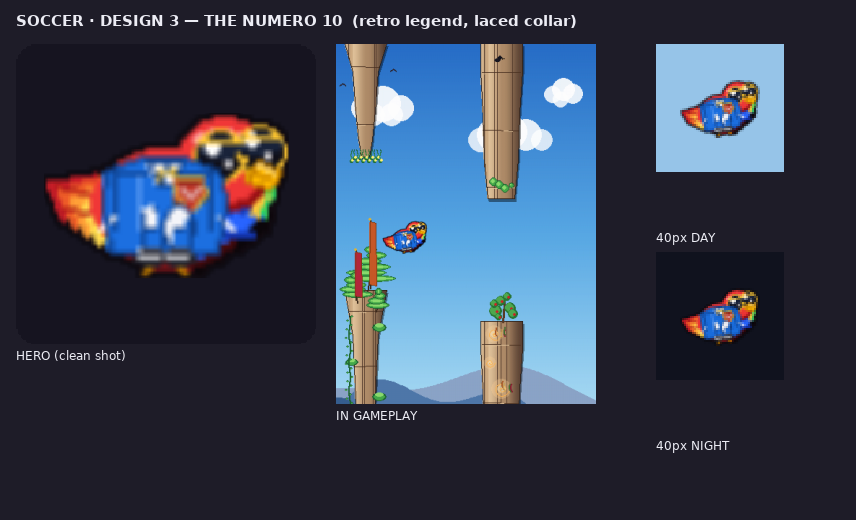
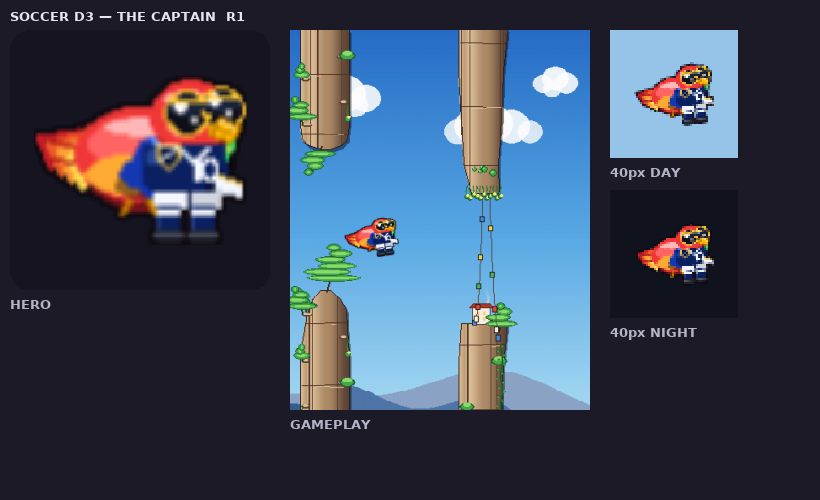
Soccer costume v2 design 3: THE CAPTAIN (navy kit + armband)
Recolor the HX,HY baseball-jersey polygon to deep navy with a white
V-collar, white squad number, gold crest, and a bright white captain's
armband on the near wing. No headband, no ball; kit stays off the face.

Claude-Session: https://claude.ai/code/session_01HafGQfRZVDiGkQqpJPr5Cm

diff --git a/tools/soccer_candidates/design_3.py b/tools/soccer_candidates/design_3.py
@@ -1,176 +1,103 @@
-"""DESIGN 3 — THE NÚMERO 10 (Soccer / Football, retro legend).
+"""DESIGN 3 — THE CAPTAIN (Soccer / Football, v2).
 
-Scratch exploration only — NOT registered in store_skins.BUILDERS. Pip the
-scarlet macaw kitted as a vintage international glory legend: a classic
-sky-blue, long-sleeve COTTON jersey with a laced V-collar at the CHEST
-neckline (the era tell), a small embroidered crest patch on the near chest,
-the iconic big retro "10" low on the shirt, and classic high socks with a
-single fold-over top band over low retro boots. No headgear (crown stays
-open) so the era reads clean — and so NOTHING covers Pip's beak/eye/face.
+Scratch exploration only — NOT registered in store_skins.BUILDERS, so
+production is untouched. Pip the scarlet macaw kitted as the side's captain:
+a classic deep-NAVY jersey with a white V-collar at the chest neckline, a
+white squad NUMBER on the chest, a small gold team CREST on the upper-left
+chest, and — the hero tell — a bright white CAPTAIN'S ARMBAND wrapped around
+the near (forward-right) wing. White shorts hem, tall navy socks with a white
+hoop, and low dark boots finish the kit. No ball, no headgear — the crown
+stays the open macaw so Pip still reads as a parrot, and NOTHING covers the
+beak/eye/face.
 
-The jersey is painted OVER the scarlet body (head stays the macaw so Pip
-still reads as a parrot). The laced CHEST collar + crest + long sleeves are
-what separate this from the modern Striker — it must read as a DIFFERENT ERA
-of football. The collar lives at the NECKLINE on the chest (same zone as the
-tennis polo collar, ~HY+8..12), never on the face, so it can't be mistaken
-for sunglasses. All kit is held INSIDE the base bird footprint: socks +
-boots sit on the feet line (~HY+15..27), nothing balloons the torso or
-drops below the feet.
+The jersey reuses the EXACT baseball-jersey polygon anchored on HX,HY (top at
+HY+8, hem at HY+23) so the kit sits centred on the torso, never riding up onto
+the face or off to the side. The armband is the one cue that must survive the
+40px downscale: a 4px bright white band on the dark navy sleeve, the single
+brightest mark in the costume, so "captain" reads at hero scale.
 """
 import pygame
 
 from game import store_skins
-from game.store_skins import HX, HY, CROWN_Y, _poly
+from game.store_skins import HX, HY, _poly
 
 
-# Sky-blue retro cotton kit. Three cloth values so the laced collar, crest and
-# big "10" still separate from the jersey field after the 40px downscale, and
-# the long sleeves read as set-in. Cotton, not satin — the values sit closer
-# together than the modern Striker's, which is part of the nostalgic read.
-_RET_SKY     = (28, 111, 224)       # #1C6FE0 jersey sky-blue (cotton mid)
-_RET_SKY_D   = (16, 66, 142)        # cloth shadow / seams / line work
-_RET_SKY_H   = (96, 158, 244)       # sleeve / collar highlight
-_RET_SKY_HOLE= (60, 132, 236)       # knocked-out sky-blue inside the "0"
-_RET_WHITE   = (248, 250, 255)      # #F8FAFF number / collar trim (lifted for contrast)
-_RET_WHITE_D = (206, 218, 240)      # cool white shade so the trim reads rounded
-_RET_RED     = (200, 60, 46)        # #C83C2E retro crest field
-_RET_RED_D   = (120, 32, 24)        # crest shadow / outline
-_RET_GOLD    = (236, 198, 78)       # #ECC64E lace cord / crest rim
-_RET_GOLD_H  = (255, 232, 158)      # lace glint
-_RET_GOLD_D  = (120, 96, 30)        # crisp dark underline so gold reads as kit
-_RET_BOOT    = (35, 37, 46)         # #23252E low retro boot
-_RET_BOOT_H  = (78, 84, 102)        # boot upper highlight
-
-
-# Body centre in composite space (parrot body centre (32,32) + PARROT_DY=20).
-BCX, BCY = 32, 52
+# Classic deep-navy kit. Three cloth values so the collar, number and crest
+# still separate from the jersey field after the 40px downscale.
+_CAP_NAVY    = (10, 32, 96)         # #0A2060 jersey deep navy (cloth mid)
+_CAP_NAVY_D  = (6, 20, 62)          # cloth shadow / seams / off-side
+_CAP_NAVY_H  = (40, 70, 150)        # shoulder / sleeve sheen
+_CAP_WHITE   = (244, 247, 255)      # #F4F7FF collar / number / armband / shorts
+_CAP_WHITE_D = (200, 210, 232)      # cool white shade so trim reads rounded
+_CAP_GREY    = (208, 212, 222)      # light-grey shorts shade
+_CAP_GOLD    = (236, 198, 78)       # #ECC64E crest shield rim
+_CAP_GOLD_H  = (255, 232, 158)      # crest glint
+_CAP_BOOT    = (32, 34, 44)         # #20222C low dark boot
+_CAP_BOOT_H  = (84, 90, 108)        # boot upper highlight
 
 
 def _paint(surf, _a):
-    # --- Long-sleeve cotton JERSEY over the torso (THE retro read) --------------
-    # A clean jersey block clipped to the chest, filled sky-blue. Held inside the
-    # footprint (shoulders ~BCY-12, hem ~BCY+12). The hem dips slightly lower than
-    # the Striker's so the big "10" has room to sit LOW on the shirt — the retro
-    # placement, not high-centre like a modern squad number.
-    jersey = [(BCX - 15, BCY - 9), (BCX - 16, BCY - 1), (BCX - 14, BCY + 12),
-              (BCX + 13, BCY + 12), (BCX + 15, BCY - 1), (BCX + 13, BCY - 9),
-              (BCX + 4, BCY - 12), (BCX - 6, BCY - 12)]
-    _poly(surf, _RET_SKY, jersey)
+    # --- NAVY JERSEY over the torso (the team read) -----------------------------
+    # Exact baseball-jersey polygon on the HX,HY anchor: top y=HY+8, hem y=HY+23.
+    # Nothing rises above y=HY+8 so the kit can never climb onto the face.
+    jersey = [(HX - 13, HY + 8), (HX - 14, HY + 18), (HX - 10, HY + 23),
+              (HX + 8, HY + 23), (HX + 11, HY + 18), (HX + 9, HY + 8)]
+    _poly(surf, _CAP_NAVY, jersey)
+    # Off-side shade so the jersey reads as a rounded torso, not a flat panel.
+    _poly(surf, _CAP_NAVY_D, [(HX + 4, HY + 9), (HX + 11, HY + 18),
+                              (HX + 8, HY + 23), (HX + 5, HY + 22)])
+    # Shoulder sheen on the near side so the cloth catches light.
+    _poly(surf, _CAP_NAVY_H, [(HX - 12, HY + 9), (HX - 6, HY + 9),
+                              (HX - 8, HY + 13), (HX - 13, HY + 13)])
 
-    # Shoulder-seam shadow + re-edge the jersey contour.
-    pygame.draw.line(surf, _RET_SKY_D, (BCX - 12, BCY - 8), (BCX + 10, BCY - 8), 1)
-    pygame.draw.polygon(surf, _RET_SKY_D, jersey, 1)
-    # A soft vertical highlight down the chest so the cotton reads rounded.
-    pygame.draw.line(surf, _RET_SKY_H, (BCX - 9, BCY - 6), (BCX - 9, BCY + 6), 1)
+    # --- WHITE V-COLLAR at the chest neckline (on the CHEST, not the face). A
+    #     small open V notch at the jersey top, HY+9..13, well below the head, so
+    #     it can never be mistaken for sunglasses or cover the beak/eye.
+    pygame.draw.line(surf, _CAP_WHITE, (HX - 4, HY + 9), (HX, HY + 13), 2)
+    pygame.draw.line(surf, _CAP_WHITE, (HX + 4, HY + 9), (HX, HY + 13), 2)
+    pygame.draw.line(surf, _CAP_WHITE_D, (HX - 3, HY + 9), (HX, HY + 12), 1)
 
-    # --- Long SLEEVES — a sky-blue cloth column down each wing root --------------
-    # The long-sleeve cotton tell vs the modern short-sleeve Striker: a clear
-    # sky-blue sleeve band runs DOWN each wing root with a darker set-in seam, then
-    # a contrasting 2px WHITE cuff hoop closes the bottom. A visible cloth column
-    # on the wing = "long-sleeve cotton". The cuff hoop is the part that must
-    # survive 40px, so it's a full bright band across the sleeve foot.
-    for sgn in (-1, 1):
-        sx = BCX + sgn * 15           # outer sleeve edge
-        ix = BCX + sgn * 10           # inner sleeve edge (toward the chest)
-        top, bot = BCY - 8, BCY + 7
-        # Sleeve cloth column filled sky-blue so the wing root reads as cloth.
-        _poly(surf, _RET_SKY,
-              [(ix, top), (sx, top + 1), (sx, bot), (ix, bot - 1)])
-        # Set-in seam where the sleeve meets the body + an outer-edge shadow so the
-        # column reads as a rounded tube, not a flat patch.
-        pygame.draw.line(surf, _RET_SKY_D, (ix, top), (ix, bot - 1), 1)
-        pygame.draw.line(surf, _RET_SKY_D, (sx, top + 1), (sx, bot), 1)
-        pygame.draw.line(surf, _RET_SKY_H, (ix + sgn, top + 2),
-                         (ix + sgn, bot - 3), 1)
-        # White cuff hoop closing the long sleeve — a 2px bright band at the foot
-        # of the column with a dark under-edge so it reads as a cuff, not a smear.
-        pygame.draw.line(surf, _RET_WHITE, (ix, bot - 1), (sx, bot), 2)
-        pygame.draw.line(surf, _RET_SKY_D, (ix, bot + 1), (sx, bot + 1), 1)
+    # --- WHITE SQUAD NUMBER on the chest — a bold "10" reads as a captain's
+    #     number at hero scale. Sits at HY+12..18, right of centre so the crest
+    #     owns the upper-left chest.
+    pygame.draw.line(surf, _CAP_WHITE, (HX + 1, HY + 12), (HX + 1, HY + 18), 2)  # "1"
+    pygame.draw.ellipse(surf, _CAP_WHITE, (HX + 3, HY + 12, 5, 7))               # "0"
+    pygame.draw.ellipse(surf, _CAP_NAVY, (HX + 4, HY + 13, 3, 5))                # "0" hole
 
-    # --- Laced V-COLLAR at the CHEST neckline (THE era tell) --------------------
-    # A white V opening UPWARD from the shoulders, its point dropping DOWN toward
-    # the chest — sitting at the neckline (~HY+8..12 zone), in the SAME band as the
-    # tennis polo collar, NOT on the face. Two gold lace rungs lace the placket
-    # closed inside the white. High-contrast white on the blue so it can never read
-    # as a face element. The collar is two white arms meeting at a low point.
-    nx = BCX + 1                      # collar centre on the chest
-    sh_y = BCY - 9                    # shoulder line (top of the V arms)
-    pt_y = BCY - 1                    # point of the V (drops toward the chest)
-    larm = (nx - 7, sh_y)             # left shoulder corner
-    rarm = (nx + 7, sh_y)             # right shoulder corner
-    pt = (nx, pt_y)                   # V point on the chest
-    # Filled white V (two arms meeting at the low point) — a clean bright wedge so
-    # the collar reads as cloth opening at the neck, not a line.
-    _poly(surf, _RET_WHITE,
-          [larm, (nx - 2, sh_y), pt, (nx + 2, sh_y), rarm,
-           (nx + 4, sh_y + 3), pt, (nx - 4, sh_y + 3)])
-    # Cool shade on the lower-right inner edge so the collar cloth reads rounded.
-    pygame.draw.line(surf, _RET_WHITE_D, (nx + 2, sh_y + 1), pt, 1)
-    # Dark keyline around the V so the white pops crisp off the blue field.
-    pygame.draw.lines(surf, _RET_SKY_D, False,
-                      [larm, pt, rarm], 1)
-    # Gold lace rungs lacing the placket: 2 short vertical gold ticks straddling
-    # the centre slit, inside the white wedge — the unmistakable "laced collar".
-    for ry in (sh_y + 2, sh_y + 5):
-        pygame.draw.line(surf, _RET_GOLD, (nx - 2, ry), (nx - 2, ry + 2), 2)
-        pygame.draw.line(surf, _RET_GOLD, (nx + 2, ry), (nx + 2, ry + 2), 2)
-    pygame.draw.line(surf, _RET_GOLD_H, (nx - 2, sh_y + 2), (nx - 2, sh_y + 3), 1)
-    # The dark placket slit down the centre, between the gold rungs.
-    pygame.draw.line(surf, _RET_SKY_D, (nx, sh_y + 1), (nx, pt_y - 1), 1)
+    # --- GOLD TEAM CREST on the upper-left chest — a small shield (~8x8) with one
+    #     white slash, drawn around (HX-7, HY+10).
+    cx, cy = HX - 7, HY + 11
+    shield = [(cx - 3, cy - 3), (cx + 3, cy - 3), (cx + 3, cy + 1),
+              (cx, cy + 4), (cx - 3, cy + 1)]
+    _poly(surf, _CAP_NAVY_D, shield)                  # crest field (dark, so gold pops)
+    pygame.draw.polygon(surf, _CAP_GOLD, shield, 1)   # gold shield outline
+    pygame.draw.line(surf, _CAP_WHITE, (cx - 2, cy + 1), (cx + 2, cy - 2), 1)   # white slash
+    pygame.draw.line(surf, _CAP_GOLD_H, (cx - 3, cy - 3), (cx + 3, cy - 3), 1)  # rim glint
 
-    # --- Embroidered CREST patch on the near chest ------------------------------
-    # A simplified shield (woven, not printed): red field, a 1px gold rim, and a
-    # SINGLE bold white chevron inside — one mark, not a crowd. Bumped 1px larger
-    # and tucked high on the near (right) chest so it doesn't crowd the collar.
-    crx, cry = BCX + 10, BCY - 3
-    shield = [(crx - 4, cry - 5), (crx + 4, cry - 5), (crx + 5, cry),
-              (crx, cry + 6), (crx - 5, cry)]
-    _poly(surf, _RET_RED_D, [(p[0], p[1] + 1) for p in shield])   # drop shadow
-    _poly(surf, _RET_RED, shield)
-    pygame.draw.polygon(surf, _RET_GOLD, shield, 1)               # 1px gold rim
-    # Single bold white chevron device inside the shield (the lone "embroidery").
-    pygame.draw.line(surf, _RET_WHITE, (crx - 3, cry - 1), (crx, cry + 2), 2)
-    pygame.draw.line(surf, _RET_WHITE, (crx + 3, cry - 1), (crx, cry + 2), 2)
+    # --- WHITE SHORTS hem just below the jersey hem — a short light band between
+    #     the jersey (HY+23) and the socks so the kit has the shorts read.
+    _poly(surf, _CAP_WHITE, [(HX - 11, HY + 22), (HX + 9, HY + 22),
+                             (HX + 8, HY + 26), (HX - 10, HY + 26)])
+    _poly(surf, _CAP_GREY, [(HX - 1, HY + 22), (HX + 9, HY + 22),
+                            (HX + 8, HY + 26), (HX - 1, HY + 26)])  # off-side shade
+    pygame.draw.line(surf, _CAP_NAVY_D, (HX - 1, HY + 22), (HX - 1, HY + 26), 1)  # leg split
 
-    # --- Big retro "10" low on the shirt ----------------------------------------
-    # The iconic number — the single loudest footballer signal. Two clean BOLD
-    # glyphs read upright on the chest, scaled up so they own the lower shirt, with
-    # a clear ~3px gap so the digits never collide after the downscale: a simple
-    # blocky "1" (no serif noise) on the LEFT + an open "0" with a 1px sky-blue
-    # hole on the RIGHT. Sits LOW on the shirt, below the collar and crest.
-    ndy = BCY + 5                     # number baseline-ish centre
-    # "1" — a single bold vertical block, crisp dark keyline + white face, no serif.
-    # Pushed left so a clear ~3px gap opens to the "0".
-    onex = BCX - 8
-    pygame.draw.line(surf, _RET_SKY_D, (onex, ndy - 8), (onex, ndy + 7), 5)
-    pygame.draw.line(surf, _RET_WHITE, (onex, ndy - 8), (onex, ndy + 7), 3)
-    pygame.draw.line(surf, _RET_WHITE_D, (onex + 1, ndy - 3), (onex + 1, ndy + 7), 1)
-    # "0" — a bold open ring with a clear ~3px gap from the "1": dark keyline, white
-    # body, a sky-blue knocked-out hole so it reads OPEN, not a solid dot.
-    ox, oy, ow, oh = onex + 5, ndy - 9, 12, 18
-    pygame.draw.ellipse(surf, _RET_SKY_D, (ox, oy, ow, oh))
-    pygame.draw.ellipse(surf, _RET_WHITE, (ox + 1, oy + 1, ow - 2, oh - 2))
-    pygame.draw.ellipse(surf, _RET_SKY_HOLE, (ox + 4, oy + 5, 4, 8))
-    pygame.draw.ellipse(surf, _RET_WHITE_D, (ox + 1, oy + oh // 2, ow - 2, oh // 2), 1)
+    # --- TALL NAVY SOCKS with a white hoop near the top + low dark BOOTS. Two
+    #     sock pillars on the feet line, one white band over each.
+    for fx in (HX - 10, HX):
+        pygame.draw.rect(surf, _CAP_NAVY, (fx, HY + 26, 7, 9))
+        pygame.draw.line(surf, _CAP_NAVY_H, (fx, HY + 26), (fx, HY + 34), 1)
+        pygame.draw.line(surf, _CAP_WHITE, (fx, HY + 27), (fx + 6, HY + 27), 2)  # white hoop
+        pygame.draw.rect(surf, _CAP_BOOT, (fx - 1, HY + 33, 9, 4), border_radius=2)
+        pygame.draw.line(surf, _CAP_BOOT_H, (fx - 1, HY + 34), (fx + 7, HY + 34), 1)
 
-    # --- High SOCKS with one fold-over band + low retro boots -------------------
-    # Classic pulled-up retro socks: a tall SOLID sky-blue sock with ONE chunky
-    # 2px WHITE fold-over hoop high on it (the unmistakable retro footballer mark),
-    # then a simple dark boot cap hugging the feet line. Everything sits ON the
-    # feet line (~HY+15..27), nothing drops below it, so the bird keeps its size.
-    for fx in (28, 35):
-        # Tall solid sky-blue sock — taller than a band so it reads pulled-up.
-        pygame.draw.line(surf, _RET_SKY_D, (fx + 1, HY + 15), (fx + 1, HY + 23), 5)
-        pygame.draw.line(surf, _RET_SKY, (fx, HY + 15), (fx, HY + 23), 4)
-        pygame.draw.line(surf, _RET_SKY_H, (fx - 1, HY + 17), (fx - 1, HY + 21), 1)
-        # ONE chunky white fold-over hoop high on the sock, with a dark under-edge
-        # so the turn-down reads as a fold even at 40px.
-        pygame.draw.line(surf, _RET_WHITE, (fx - 2, HY + 16), (fx + 2, HY + 16), 2)
-        pygame.draw.line(surf, _RET_SKY_D, (fx - 2, HY + 18), (fx + 2, HY + 18), 1)
-        # Simple low dark boot cap at the feet line — no high cleats, retro leather.
-        pygame.draw.ellipse(surf, _RET_BOOT_H, (fx - 4, HY + 22, 9, 5))
-        pygame.draw.ellipse(surf, _RET_BOOT, (fx - 4, HY + 23, 9, 4))
-        pygame.draw.line(surf, _RET_BOOT, (fx - 4, HY + 25), (fx + 4, HY + 25), 1)
+    # --- CAPTAIN'S ARMBAND (THE hero tell) — drawn LAST so it sits ON TOP of the
+    #     navy sleeve. A 4px bright-white band wrapped around the near (forward-
+    #     right) wing at HY+18..22. White edges sell it as a band ON the sleeve;
+    #     the gold trim is the single brightest mark so "captain" reads at 40px.
+    pygame.draw.line(surf, _CAP_WHITE_D, (HX + 7, HY + 19), (HX + 14, HY + 21), 5)
+    pygame.draw.line(surf, _CAP_WHITE, (HX + 7, HY + 18), (HX + 14, HY + 20), 4)
+    pygame.draw.line(surf, _CAP_GOLD, (HX + 8, HY + 17), (HX + 14, HY + 19), 1)  # gold trim
 
 
 build = store_skins._make_skin(_paint)
